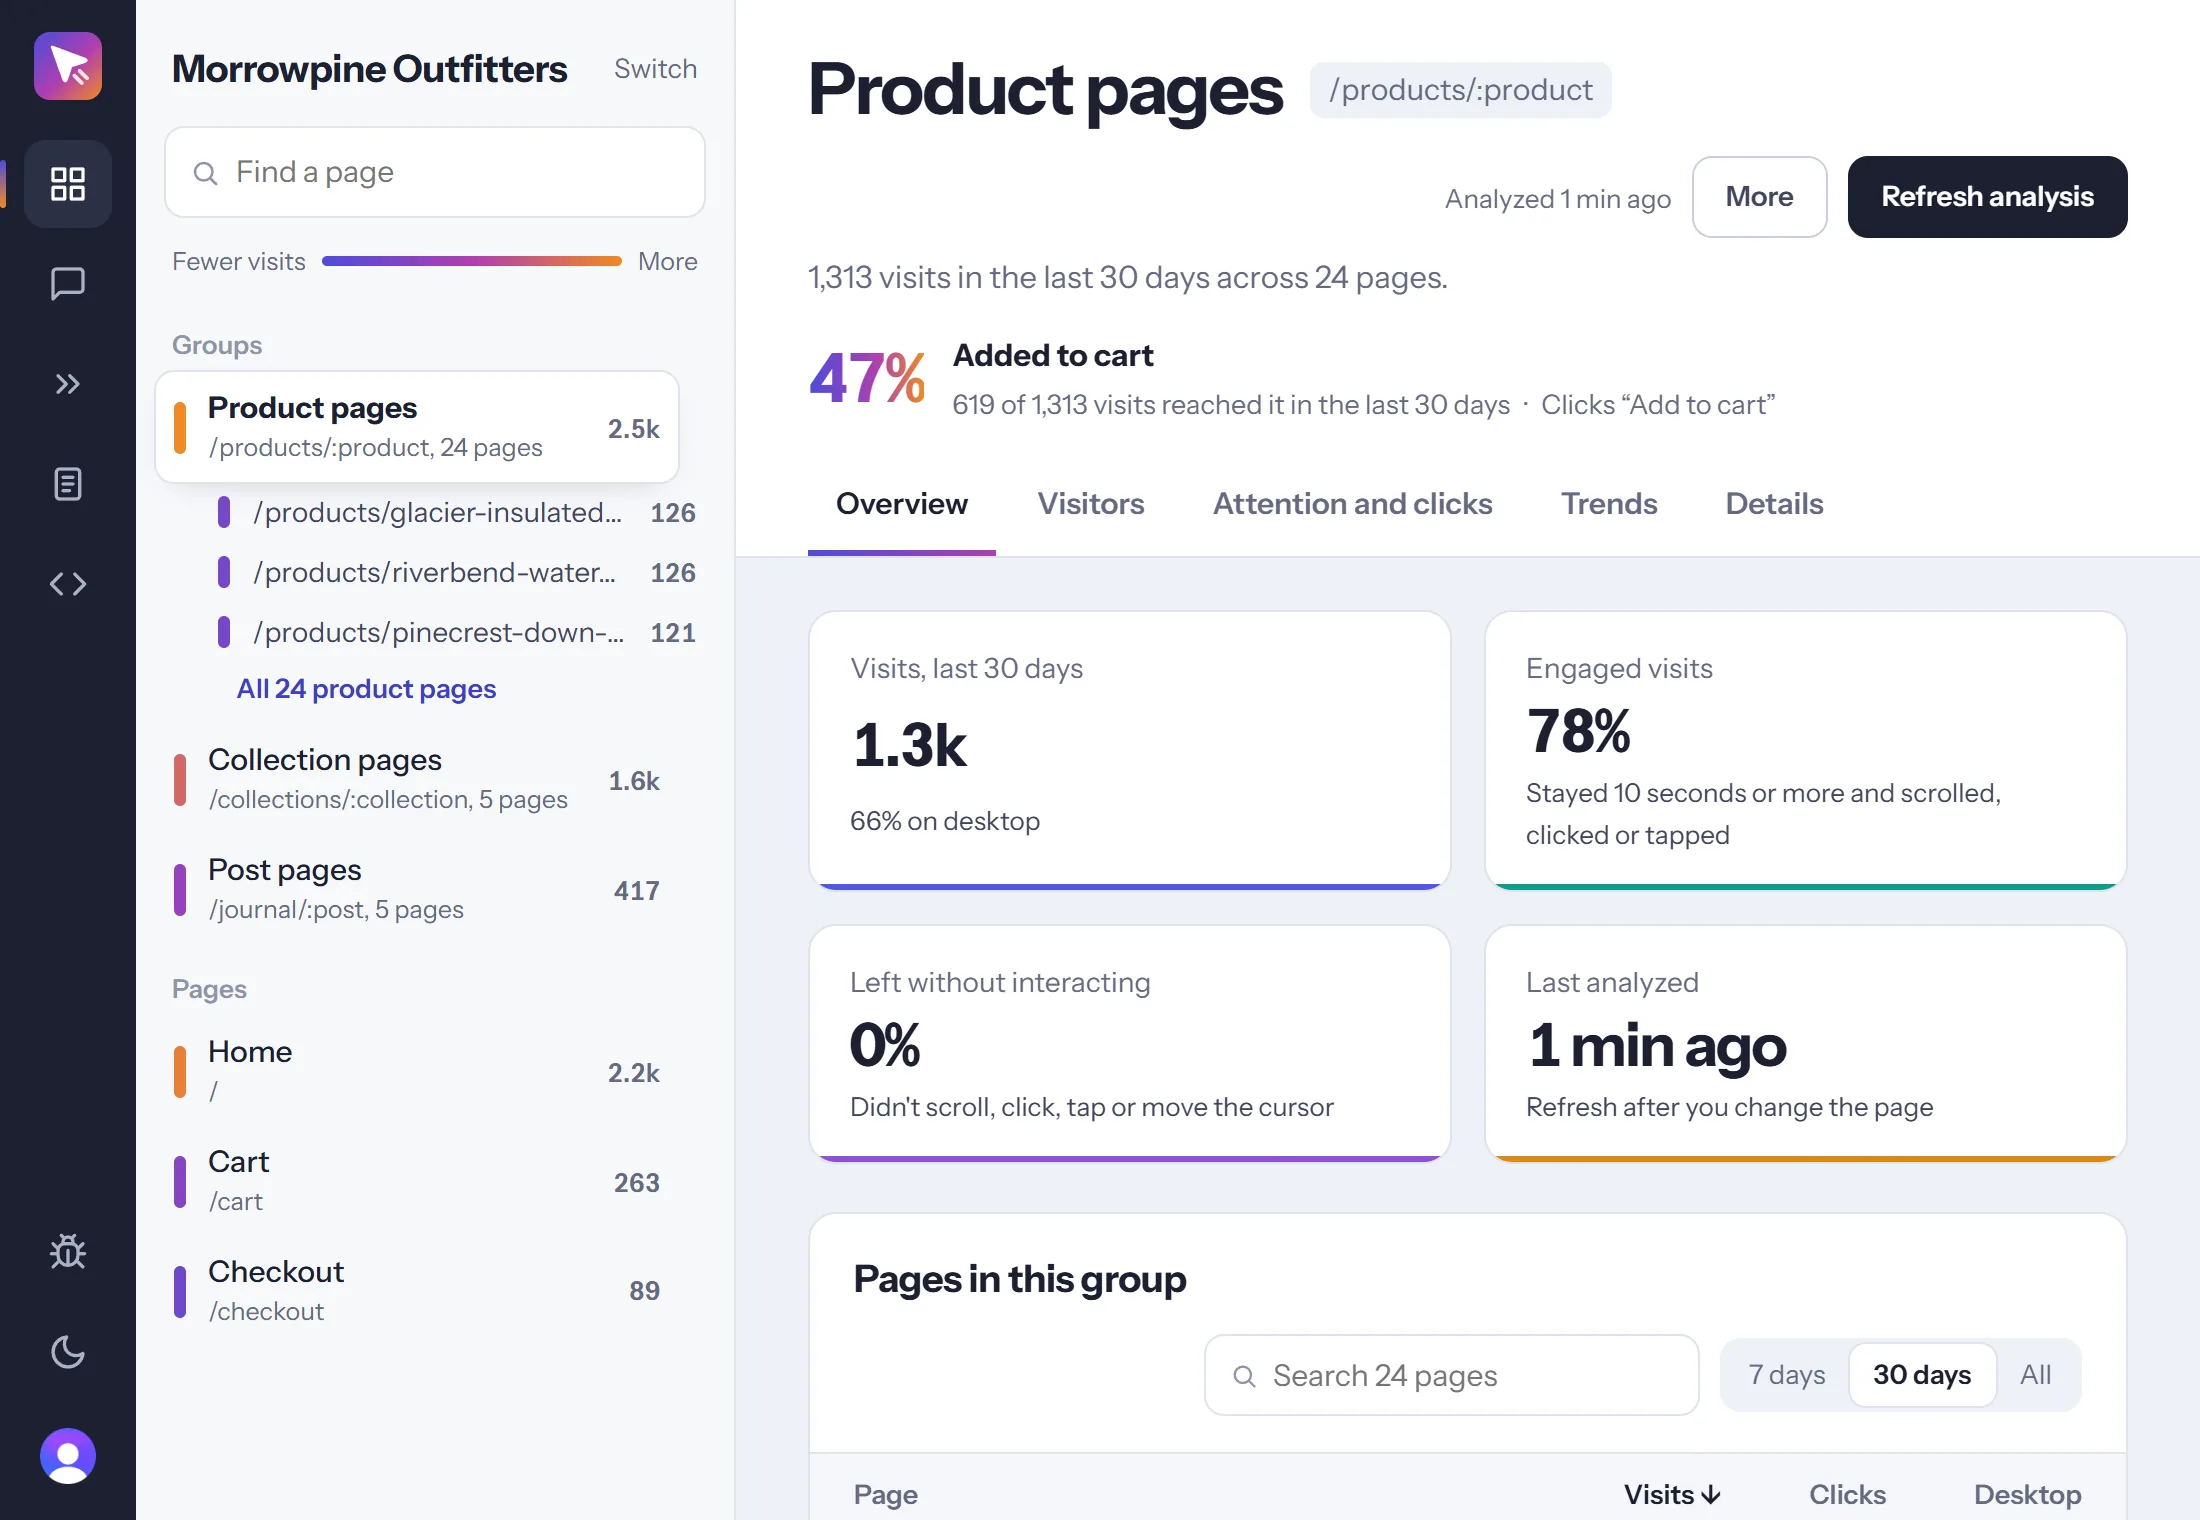
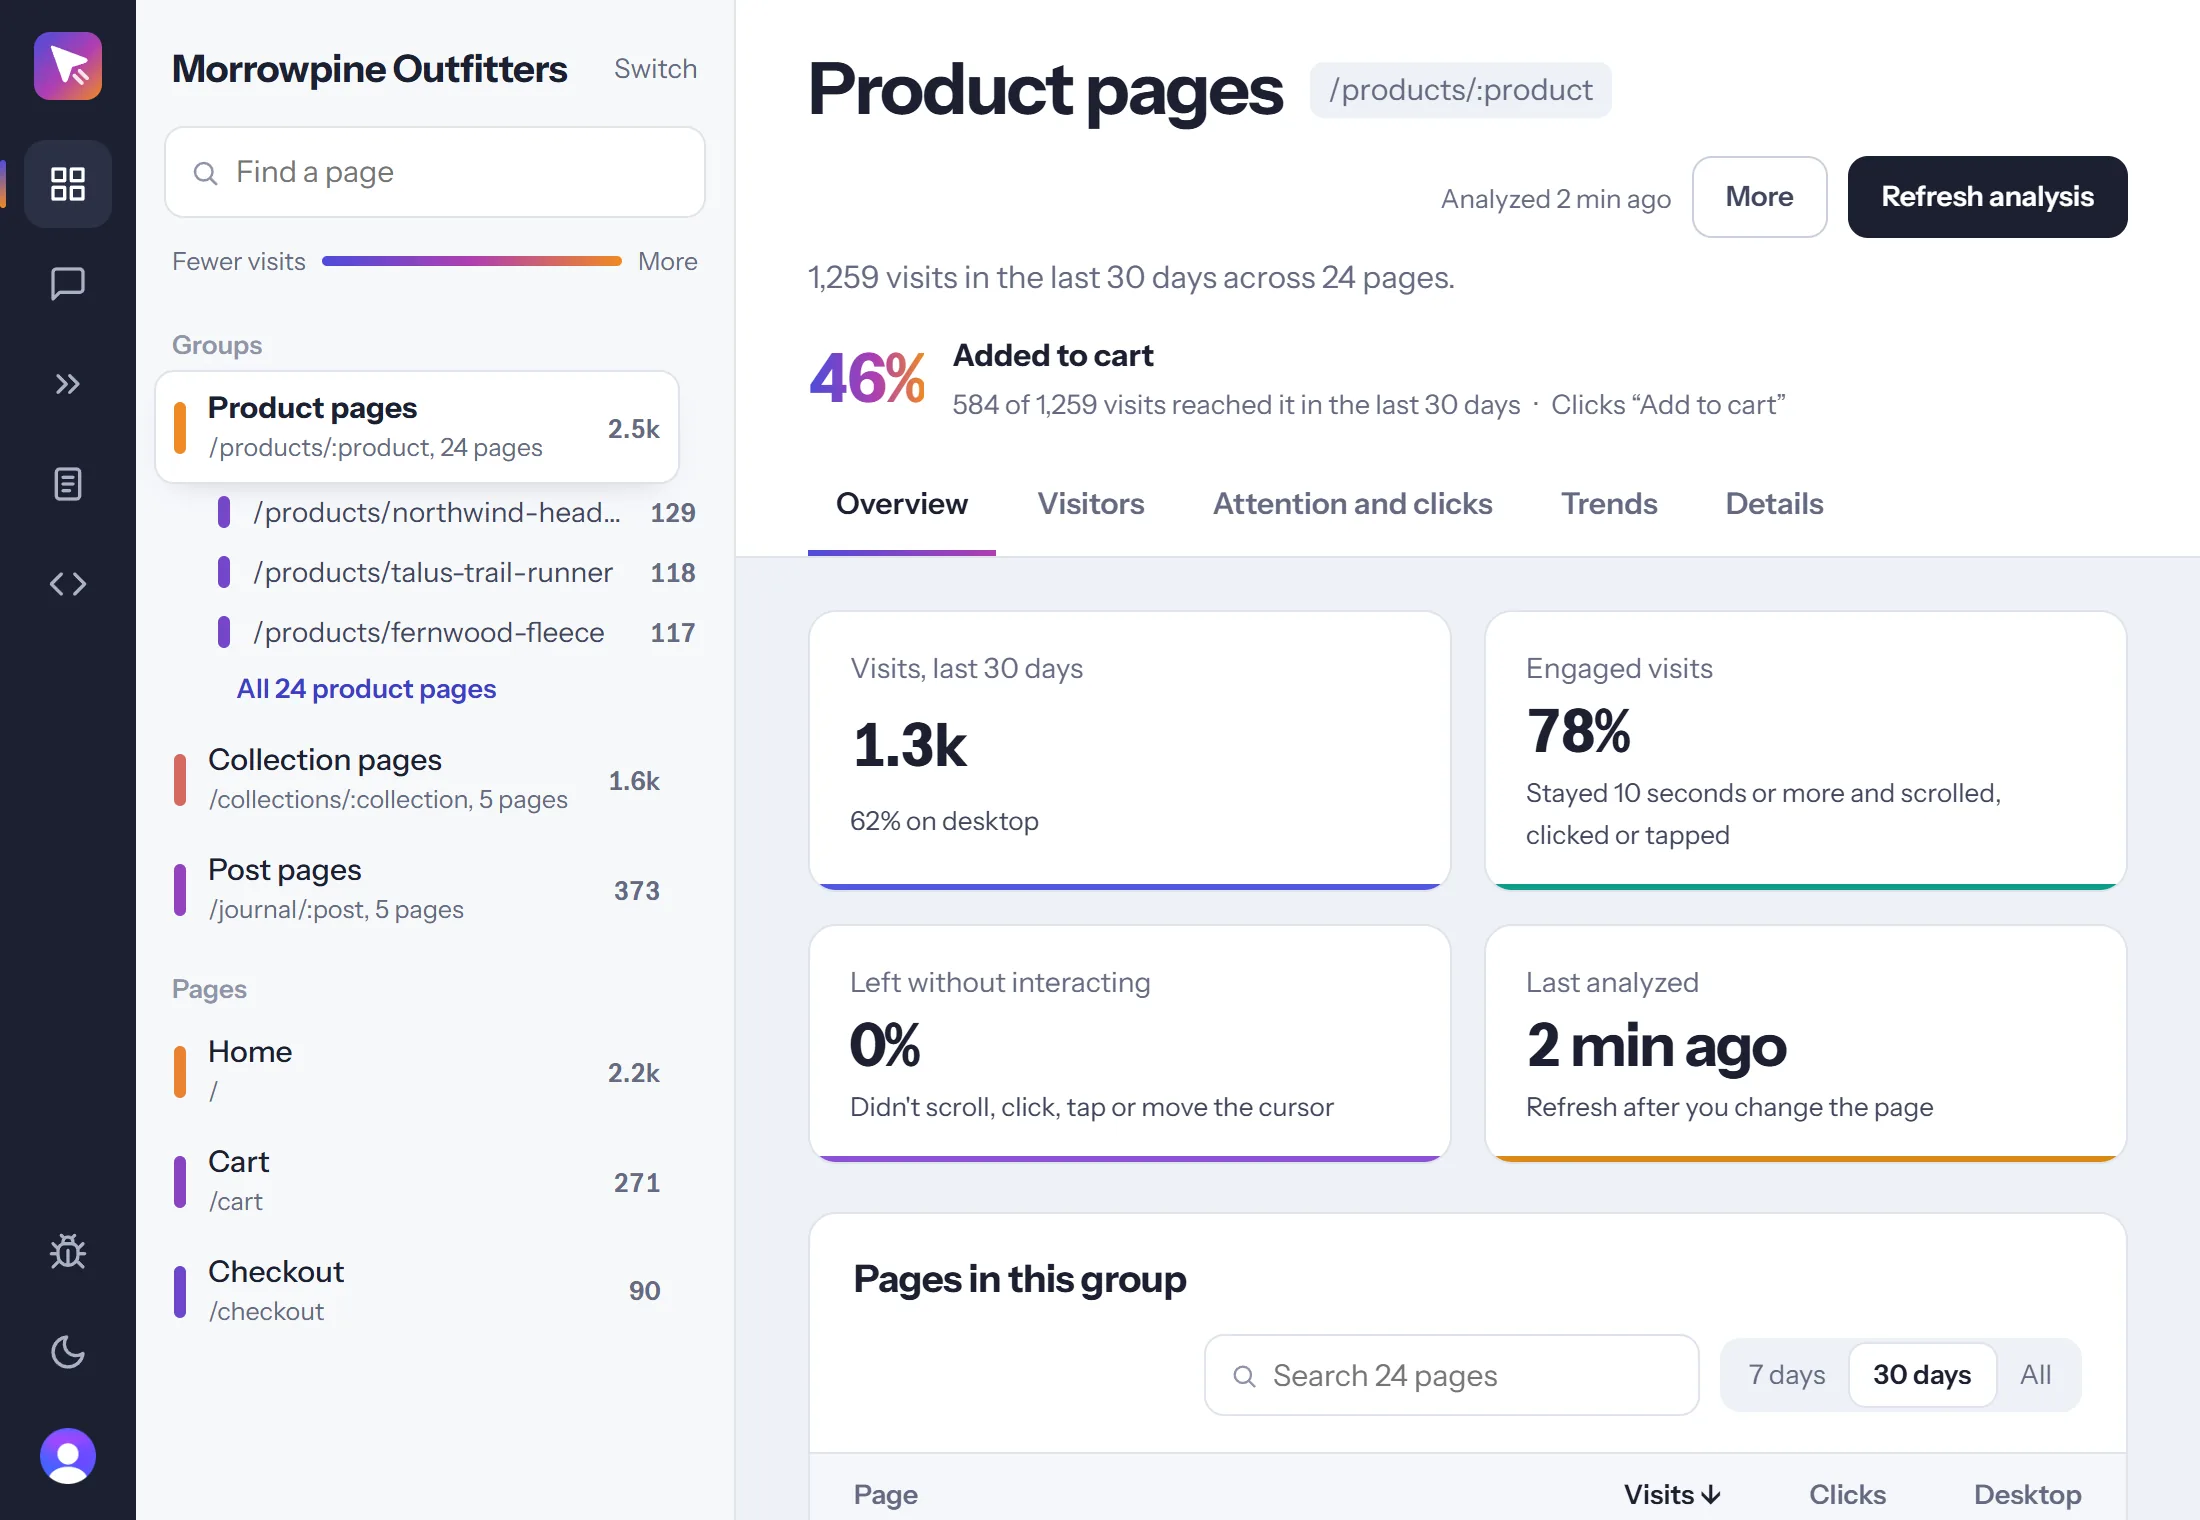
Fix the demo's phone groups and keep Ask on what it knows
- Only browsing phone visitors scroll back up in the demo, so groups read right
- Ask says what the data shows instead of what it can't see
- Homepage pictures and the Ask answer reflect the corrected demo

diff --git a/server/public/tracetray.html b/server/public/tracetray.html
@@ -330,7 +330,7 @@ footer span { margin-left: auto; }
           <h2>Goals for every page</h2>
           <p>Pick what a page is for, such as a buy button, a sign-up form or the next page, and see how many visits get there, week by week.</p>
         </div>
-        <div class="frame"><img src="/assets/home/goals.webp" width="1416" height="948" alt="Product pages: 47% of visits reached Added to cart in the last 30 days, with the rate for each of the last 12 weeks"></div>
+        <div class="frame"><img src="/assets/home/goals.webp" width="1416" height="948" alt="Product pages: 46% of visits reached Added to cart in the last 30 days, with the rate for each of the last 12 weeks"></div>
       </div>
 
       <div class="row">
@@ -338,7 +338,7 @@ footer span { margin-left: auto; }
           <h2>What to change, and why</h2>
           <p>When a group of visitors falls short of the page's goal, TraceTray shows why from the numbers: what they click instead, where they leave the page, or how long they hesitate. No suggestion appears without the figures behind it.</p>
         </div>
-        <div class="frame"><img src="/assets/home/advice.webp" width="1320" height="422" alt="What to try: re-checkers click Size guide instead of Add to cart; 81% of them click it and only 20% add to cart, against 46% overall"></div>
+        <div class="frame"><img src="/assets/home/advice.webp" width="1320" height="422" alt="What to try: re-checkers click Size guide instead of Add to cart; 77% of them click it and only 21% add to cart, against 47% overall"></div>
       </div>
 
       <div class="row flip tall">
@@ -350,7 +350,7 @@ footer span { margin-left: auto; }
             <li>Every split is checked against data with no groups in it and on random samples. If none holds up, TraceTray says visitors behave alike.</li>
           </ul>
         </div>
-        <div class="frame card-shot"><img src="/assets/home/who.webp" width="766" height="1558" alt="Who visits the product pages: re-checkers 35%, quick deciders 28%, header scanners 22% and bottom-of-page roamers 15%, each with how often they add to cart against the average"></div>
+        <div class="frame card-shot"><img src="/assets/home/who.webp" width="766" height="1558" alt="Who visits the product pages: each group with how often it adds to cart against the average, from quick deciders near 90% to re-checkers near 20%"></div>
       </div>
 
       <div class="row">
@@ -387,7 +387,7 @@ footer span { margin-left: auto; }
             <li>Has anything changed since I redesigned the homepage?</li>
           </ul>
         </div>
-        <div class="frame"><img src="/assets/home/ask.webp" width="1754" height="752" alt="Ask answering &ldquo;Why don&rsquo;t re-checkers on the product pages add to cart?&rdquo;: only 20% of them reach Added to cart against 46%, with what they do, the likely blocker and one suggestion"></div>
+        <div class="frame"><img src="/assets/home/ask.webp" width="1754" height="876" alt="Ask answering &ldquo;Why don&rsquo;t re-checkers on the product pages add to cart?&rdquo;: only 21% of them reach Added to cart against 47%, most open the size guide and reviews, and one suggestion"></div>
       </div>
     </div>
   </section>

diff --git a/server/src/lib/askAnalytics.js b/server/src/lib/askAnalytics.js
@@ -132,7 +132,7 @@ How to answer:
 - The first sentence answers the question directly, with its key number.
 - Then at most three short bullets or two short paragraphs of evidence, each with a number.
 - At most one suggestion, only when the data points to it.
-- If part of the question can't be answered, answer the part you can first, then say what's missing in one sentence at the end. Never open with what you can't do.
+- Say what the data shows, not what you lack. Don't mention missing data, tools you don't have or what you can't see; only when nothing at all answers the question, say in one sentence what would (more traffic, a goal, an analysis).
 - Under about 120 words unless the owner asks for more detail.
 - Canadian English (behaviour, colour, analyze), plain words for a site owner, no internal metric names like pause_rate or spatial_entropy.`;
 

diff --git a/server/scripts/seed-demo.js b/server/scripts/seed-demo.js
@@ -120,7 +120,7 @@ function phoneEvents(start, persona, path) {
     const pageHeight = path.startsWith("/products") ? 5600 : 4400;
     const viewport = 760;
     const depth = between(...p.depth);
-    const events = scrollEvents(start, durationMs, Math.max(depth, viewport / pageHeight), pageHeight, viewport, Math.max(1, Math.round(depth * 14)), rand() < 0.3, 300);
+    const events = scrollEvents(start, durationMs, Math.max(depth, viewport / pageHeight), pageHeight, viewport, Math.max(1, Math.round(depth * 14)), KIND[persona] === "browser", 300);
     const scrolls = [...events];
     const taps = Math.round(between(...p.taps));
     const pauses = Math.round(between(...p.pauses));
